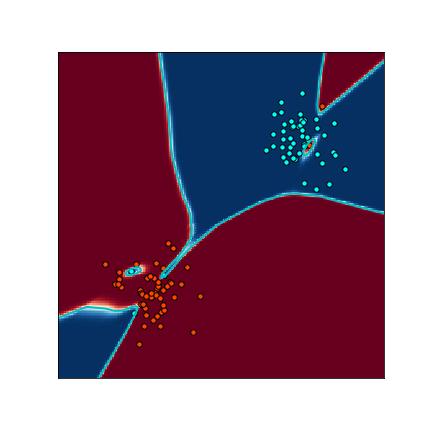
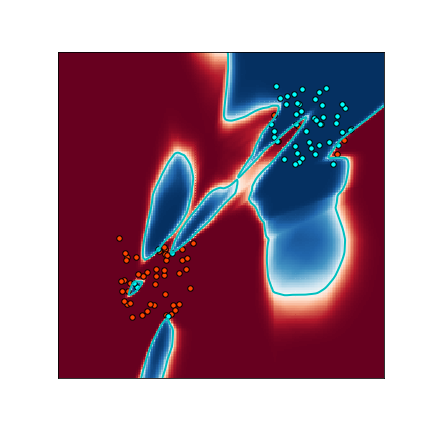
new data figures

Changed region(s): [[0.1204, 0.1204, 0.9028, 0.8727]]

diff --git a/public/index.html b/public/index.html
@@ -180,7 +180,7 @@ And $\Pi_\eps$ is the projection onto the $\eps$-ball around $x$.
     <img src="./manifold.svg"/>
   </figure>
   <figcaption>
-    A visualization of the image-manifold for adversarially perturbing a dog to a plane.
+    An illustration of the image-manifold for adversarially perturbing a dog to a plane.
     The gradient of the loss can be thought of as having an on-manifold "feature component"
     and an off-manifold "random component".
     PGD steps along both components, hence causing feature-leakage in adversarial examples.
@@ -405,27 +405,37 @@ with a small amount of random input-noise and label noise.
 
   <p>
 Formally:
+<span style="float:right; width:50%" >
+    <img src="./data.png" style="width:90%"/>
+</span>
 $$Y \sim \{\pm 1\} , \quad X := (\mathbb{1}^{32 \times 32 \times 3} + \eta_\eps) \cdot Y \cdot \eta$$
 where $\eta \in \{\pm 1\} \sim Bernoulli(0.1)$ is the 10% label noise, and $\eta_\eps \sim [-0.1, +0.1]^n$
 is uniform $L_\infty$ input-noise.
+
+<br/>
+<br/>
+A plot of samples from a 2D-version of this distribution is shown to the right.
+
   </p>
 
-<p>
 
-Notice that there exists a trivial robust classifier for this problem which achieves perfect robust classification, with to $\eps = 0.4$ magnitude $L_\infty$ attacks.
+
+  <p>
+Notice that there exists a trivial robust classifier for this problem which achieves perfect robust classification, with up to $\eps = 0.9$ magnitude $L_\infty$ attacks.
 However, if we sample 10000 training images from this distribution, and train
-a ResNet18 to 99.9% train accuracy
+a ResNet18 to 99.9% train accuracy,
 <d-footnote>
 We optimize using Adam with learning-rate $0.00001$ and batch size $128$ for 20 epoches.
 </d-footnote>
-,the resulting classifier is highly non-robust -- it has 0% robust accuracy even with $\eps=0.01$ perturbations.
+the resulting classifier is highly non-robust:
+an $\eps=0.01$ perturbation suffices to flip the class of almost all test examples.
 </p>
 
 <p>
 The input-noise and label noise are both essential for this construction.
 One intuition for what is happening is: in the initial stage of training
 the optimization learns the "correct" decision boundary (indeed, stopping after 1 epoch results in a robust classifier).
-However, optimizing to the point of $\approx 0$ train-error requires a highly non-Lipshitz network
+However, optimizing for close to 0 train-error requires a highly non-Lipshitz network
 to fit the label-noise, which hurts robustness.
 
   <figure class="l-page">
